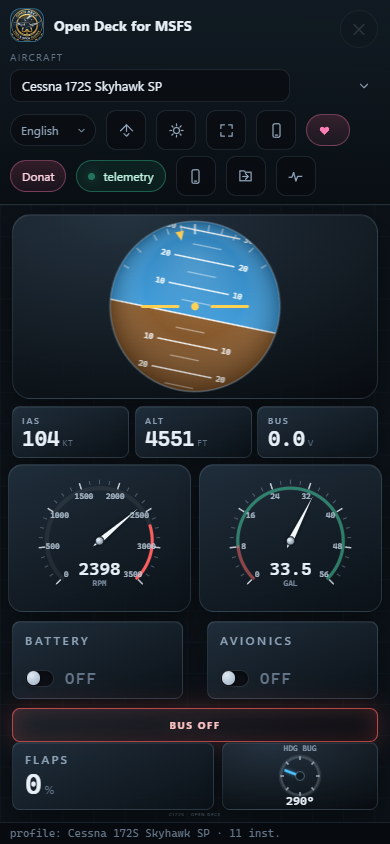
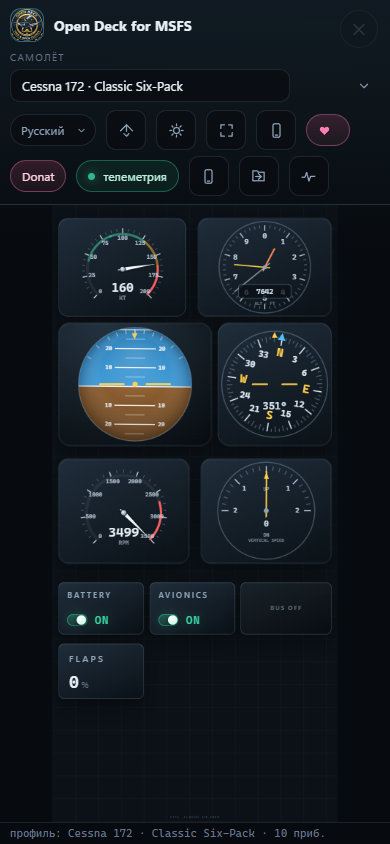
Scale full-screen panel to preserve instrument proportions

diff --git a/web/js/ui/stage.js b/web/js/ui/stage.js
@@ -32,15 +32,22 @@ export function createStage({ stage, frame, screen, panel }) {
   }
 
   function fit() {
-    if (mode !== 'frame') return;
-    const frameWidth = frame.offsetWidth;
-    const frameHeight = frame.offsetHeight;
+    const frameWidth = mode === 'full' ? preset.width : frame.offsetWidth;
+    const frameHeight = mode === 'full' ? preset.height : frame.offsetHeight;
     if (!frameWidth || !frameHeight) return;
 
-    const availableWidth = Math.max(120, stage.clientWidth - 24);
-    const availableHeight = Math.max(120, stage.clientHeight - 24);
-    const scale = Math.min(1, availableWidth / frameWidth, availableHeight / frameHeight);
-    frame.style.transform = `scale(${Math.max(0.28, Number(scale.toFixed(4)))})`;
+    const gutter = mode === 'full' ? 0 : 24;
+    const availableWidth = Math.max(120, stage.clientWidth - gutter);
+    const availableHeight = Math.max(120, stage.clientHeight - gutter);
+    const scale = Math.min(
+      mode === 'full' ? Number.POSITIVE_INFINITY : 1,
+      availableWidth / frameWidth,
+      availableHeight / frameHeight,
+    );
+    const value = Math.max(0.28, Number(scale.toFixed(4)));
+    frame.style.transform = mode === 'full'
+      ? `translate(-50%, -50%) scale(${value})`
+      : `scale(${value})`;
   }
 
   function applyMode() {
@@ -48,17 +55,24 @@ export function createStage({ stage, frame, screen, panel }) {
     frame.dataset.mode = mode;
 
     if (mode === 'full') {
-      frame.style.width = '';
-      frame.style.height = '';
-      frame.style.transform = '';
-      // Инлайн-стили корпуса сильнее CSS-правил [data-mode="full"],
-      // поэтому сбрасываем рамку/радиус явно — панель должна быть edge-to-edge.
+      // Реальный телефон/планшет: сохраняем логический размер профиля и
+      // вписываем его в сцену целиком. Иначе короткий viewport сжимает
+      // приборы по высоте и их показания обрезаются.
+      frame.style.position = 'absolute';
+      frame.style.left = '50%';
+      frame.style.top = '50%';
+      frame.style.width = `${preset.width}px`;
+      frame.style.height = `${preset.height}px`;
       frame.style.padding = '0';
       frame.style.borderRadius = '0';
-      screen.style.width = '';
-      screen.style.height = '';
+      screen.style.width = `${preset.width}px`;
+      screen.style.height = `${preset.height}px`;
       screen.style.borderRadius = '0';
+      fit();
     } else {
+      frame.style.position = '';
+      frame.style.left = '';
+      frame.style.top = '';
       applyPreset();
       screen.style.width = `${preset.width}px`;
       screen.style.height = `${preset.height}px`;

diff --git a/CHANGELOG_RU.md b/CHANGELOG_RU.md
@@ -23,6 +23,9 @@
 
 ### Исправлено
 
+- Полноэкранный режим на телефоне/планшете теперь сохраняет логическое
+  соотношение сторон профиля и масштабирует панель целиком под сцену.
+  Раньше короткий viewport сжимал приборы и обрезал показания по краям.
 - Показания NAV в ассистенте посадки теперь используют правильные SimVar:
   отклонение от курсового — `NAV CDI:1`, отклонение от глиссады —
   `NAV GLIDE SLOPE ERROR`, валидность — `HSI CDI/GSI NEEDLE VALID`.

diff --git a/CHANGELOG.md b/CHANGELOG.md
@@ -23,6 +23,9 @@ versions — [SemVer](https://semver.org/lang/ru/).
 
 ### Fixed
 
+- Phone/tablet full-screen mode now preserves the logical profile aspect ratio
+  and scales the whole panel to fit the stage. Previously a short viewport
+  squashed widgets and clipped instrument readings at the edges.
 - Landing assistant NAV readouts now use the correct MSFS SimVars:
   localizer deviation from `NAV CDI:1`, glide-slope deviation from
   `NAV GLIDE SLOPE ERROR`, and `HSI CDI/GSI NEEDLE VALID` for validity.
